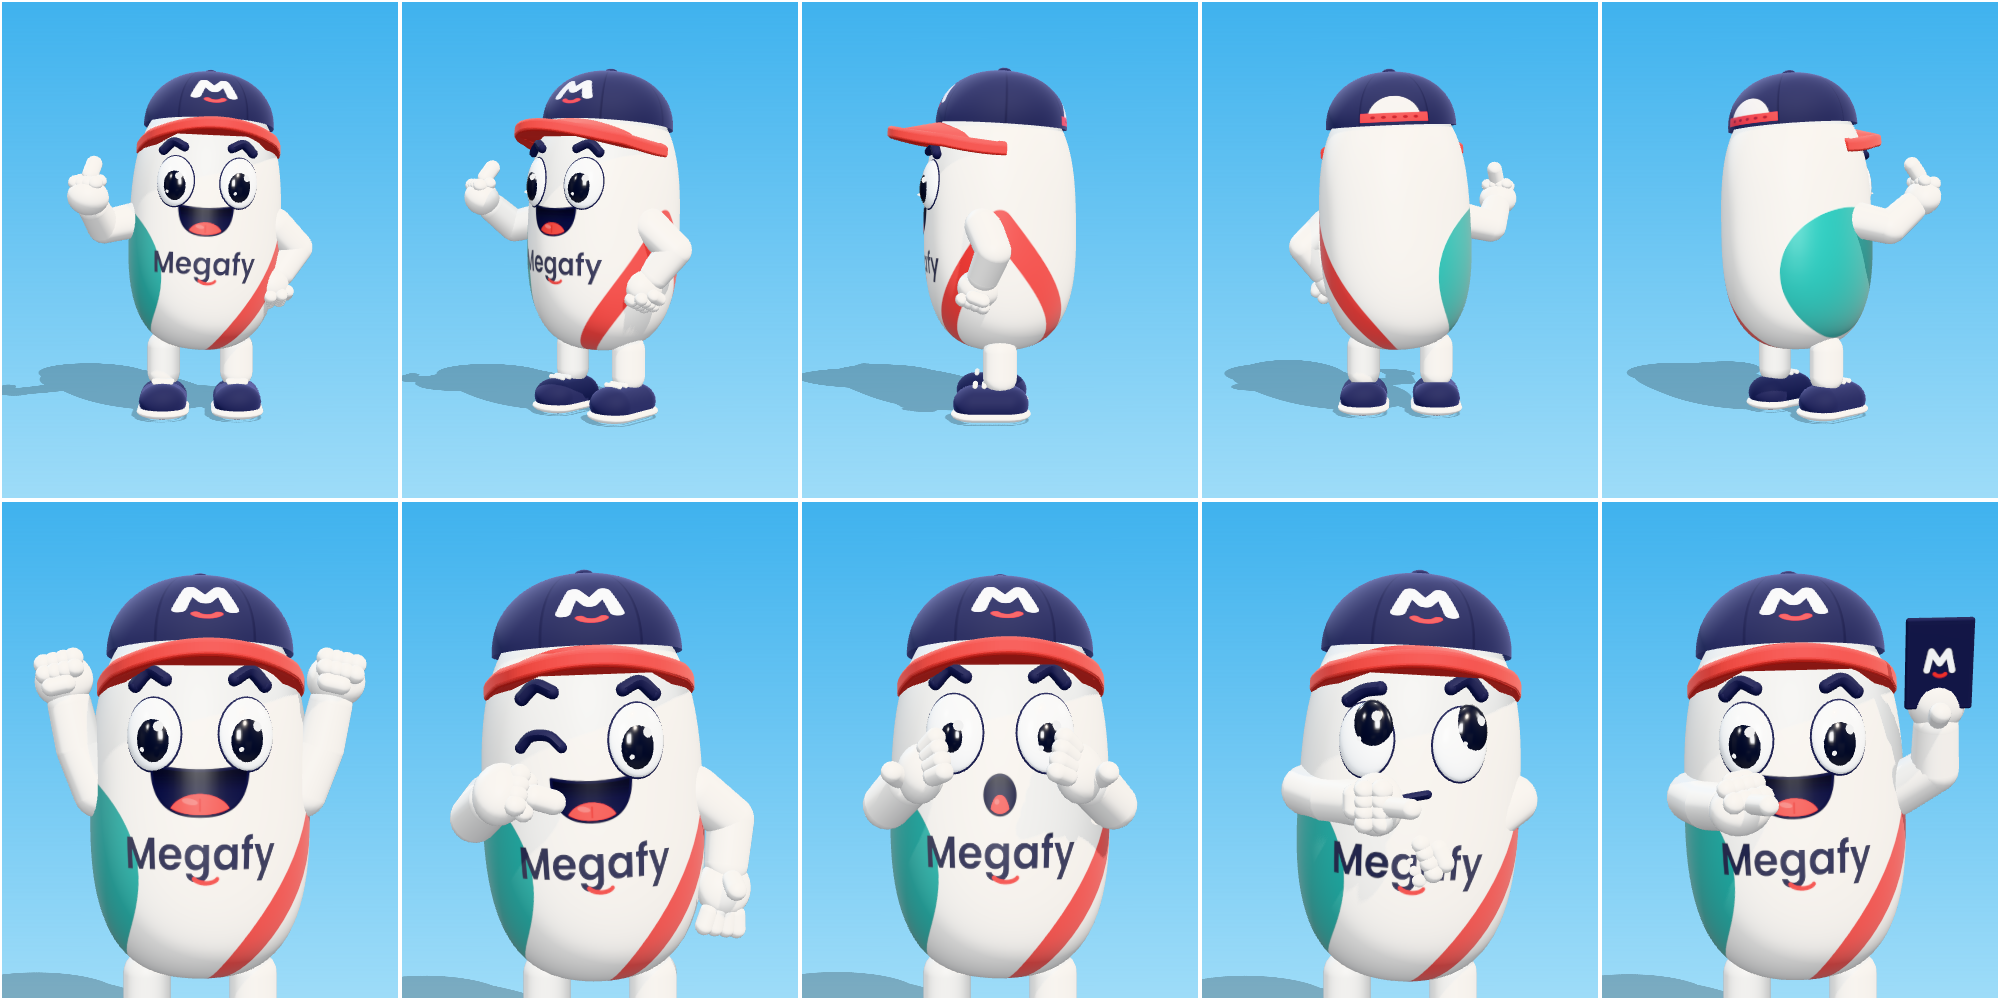
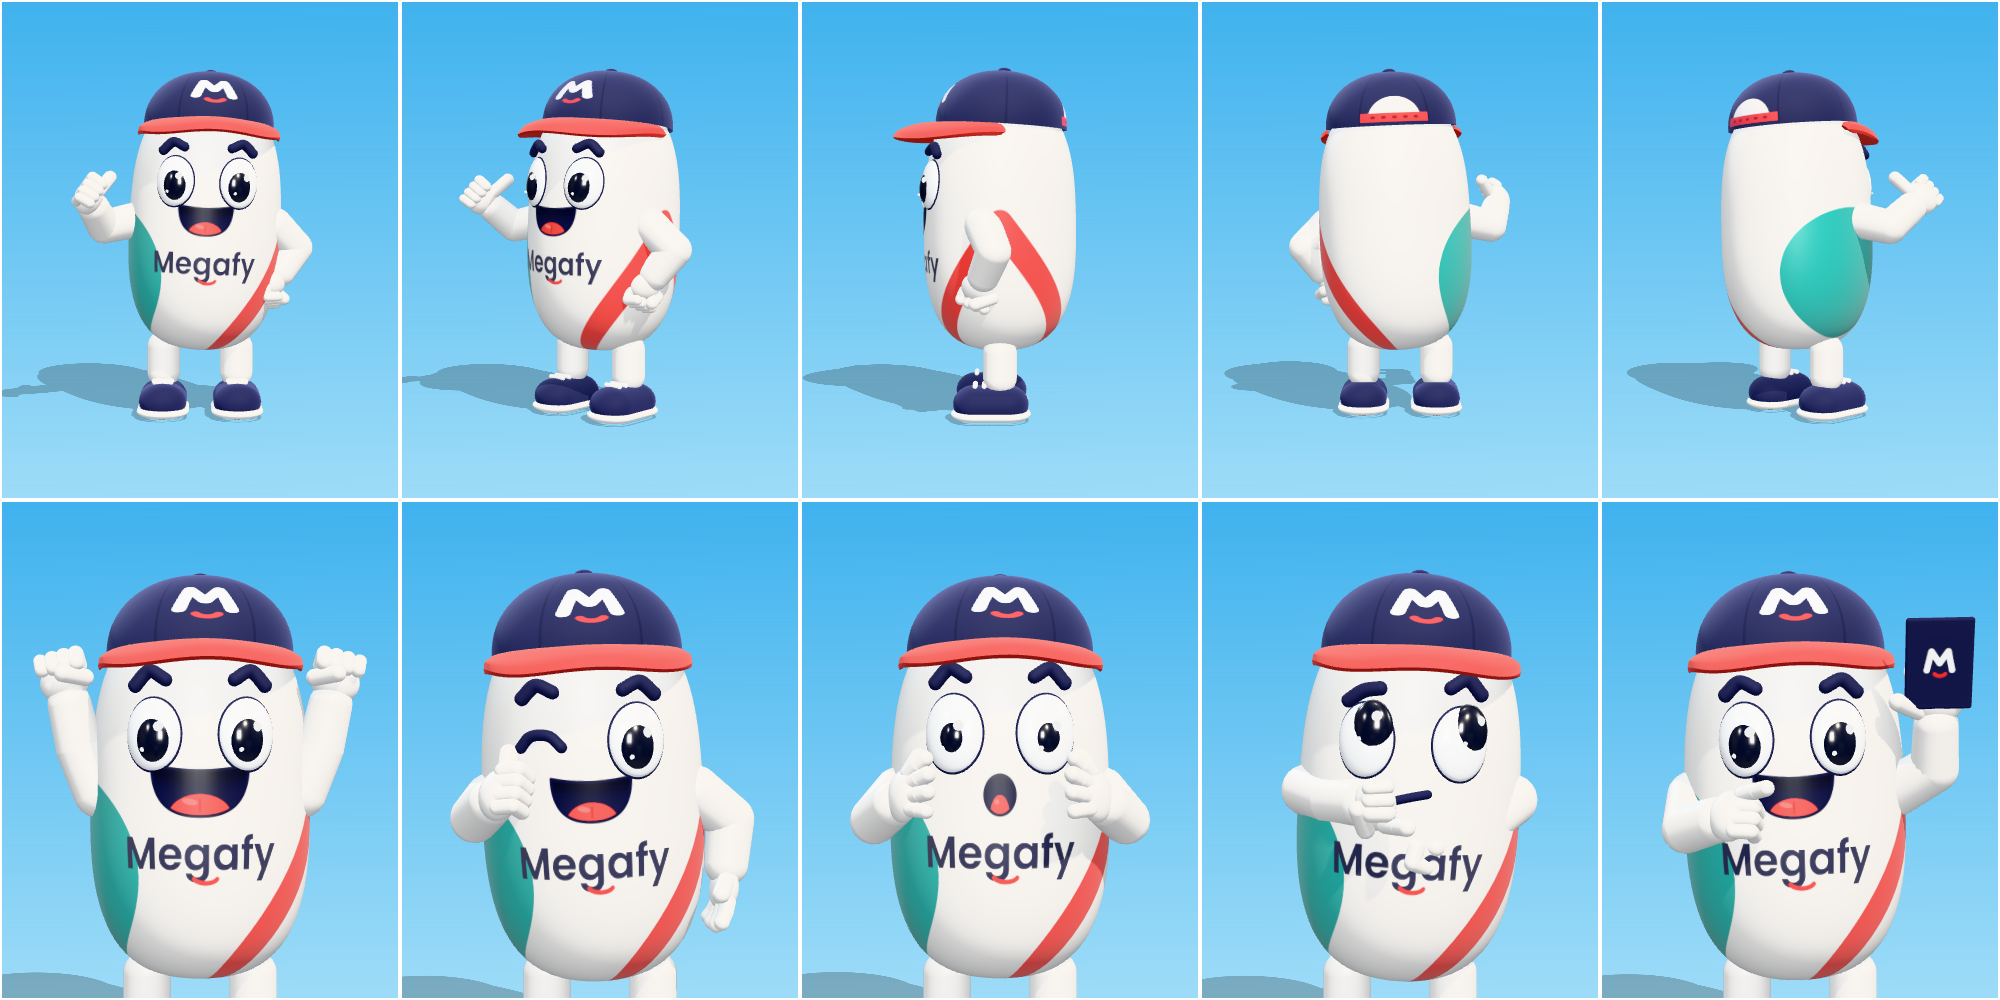
fix(mascot): attach cap brim, smooth eyes and remodel hands
- Build the brim as a dense grid bent by distance past the crown wall,
  so it stays flush with the crown and the head no longer cuts through
  the extruded caps; clamp the lip and tip factors that produced NaN
- Point face ellipsoid poles out of the skin so eye outlines use the
  64-segment equator, and weld seam vertices before wrapping
- Remodel hands as merged gloves with jointed fingers and a mirrored
  thumb on the outer edge; the thumbs-up no longer reads as a middle
  finger
- Retune pose facings to the palm convention and update the preview

diff --git a/src/scene3d/mascot/parts.ts b/src/scene3d/mascot/parts.ts
@@ -1,5 +1,6 @@
 import * as THREE from 'three';
 import { RoundedBoxGeometry } from 'three/addons/geometries/RoundedBoxGeometry.js';
+import * as BufferGeometryUtils from 'three/addons/utils/BufferGeometryUtils.js';
 import { BODY, bodyProfile, bodyRadius, wrapOntoBody } from './bodySurface';
 import { MASCOT_COLORS as C } from './palette';
 import type { MascotHand } from './poses';
@@ -72,24 +73,40 @@ export function createBody(mat: MascotMaterials, q: MascotQuality): THREE.Mesh {
 
 // --- Face -------------------------------------------------------------------------------------
 
-/** Flattened ellipsoid authored in face space, wrapped onto the body. */
+/**
+ * Shares the seam and pole vertices that built-in shapes duplicate, so the normals the wrap
+ * recomputes stay continuous instead of showing a crease in the highlights.
+ */
+function weld(g: THREE.BufferGeometry): THREE.BufferGeometry {
+  g.deleteAttribute('normal');
+  g.deleteAttribute('uv');
+  const welded = BufferGeometryUtils.mergeVertices(g);
+  g.dispose();
+  return welded;
+}
+
+/**
+ * Flattened ellipsoid authored in face space, wrapped onto the body. Its poles point out of the
+ * skin, so the outline seen from the front is the finely divided equator rather than a meridian.
+ */
 function blob(rx: number, ry: number, depth: number, x: number, y: number, z: number, q: MascotQuality): THREE.BufferGeometry {
-  const g = new THREE.SphereGeometry(1, seg(28, q), seg(16, q));
+  const g = new THREE.SphereGeometry(1, seg(64, q), seg(14, q));
+  g.rotateX(Math.PI / 2);
   g.scale(rx, ry, depth);
   g.translate(x, y, z);
-  return wrapOntoBody(g, 0);
+  return wrapOntoBody(weld(g), 0);
 }
 
 function stroke(points: THREE.Vector3[], radius: number, q: MascotQuality): THREE.BufferGeometry {
   const curve = new THREE.CatmullRomCurve3(points);
-  const g = new THREE.TubeGeometry(curve, seg(24, q), radius, seg(8, q), false);
-  return wrapOntoBody(g, 0);
+  const g = new THREE.TubeGeometry(curve, seg(40, q), radius, seg(16, q), false);
+  return wrapOntoBody(weld(g), 0);
 }
 
 function roundCap(position: THREE.Vector3, radius: number, q: MascotQuality): THREE.BufferGeometry {
-  const g = new THREE.SphereGeometry(radius, seg(10, q), seg(8, q));
+  const g = new THREE.SphereGeometry(radius, seg(16, q), seg(12, q));
   g.translate(position.x, position.y, position.z);
-  return wrapOntoBody(g, 0);
+  return wrapOntoBody(weld(g), 0);
 }
 
 function strokeWithCaps(group: THREE.Group, points: THREE.Vector3[], radius: number, material: THREE.Material, q: MascotQuality): void {
@@ -229,6 +246,60 @@ function crownProfile(steps: number): THREE.Vector2[] {
   return points;
 }
 
+const BRIM = { reach: 0.84, flare: 0.045, thickness: 0.07 } as const;
+
+/**
+ * One face of the brim (face = 1 top, -1 underside) as a dense grid over a crescent in front of
+ * the crown: angle θ runs side to side, v from just inside the crown wall to the bill's edge.
+ * A grid lets the bend follow every point; an extruded shape triangulates into long triangles
+ * that cut straight through the curve.
+ */
+function brimSurface(rim: number, face: 1 | -1, q: MascotQuality): THREE.BufferGeometry {
+  const inner = rim - 0.02;
+  const side = rim + BRIM.flare;
+  const cols = seg(56, q);
+  const rows = seg(18, q);
+  const positions: number[] = [];
+  for (let i = 0; i <= cols; i++) {
+    const theta = Math.PI * (i / cols - 0.5);
+    const sin = Math.sin(theta);
+    const cos = Math.cos(theta);
+    const edge = 1 / Math.hypot(sin / side, cos / BRIM.reach);
+    for (let j = 0; j <= rows; j++) {
+      const v = j / rows;
+      const r = inner + v * (edge - inner);
+      const x = r * sin;
+      const z = r * cos;
+      // t grows with the distance past the crown wall (1 at the front edge): the bend grows with
+      // it, so the brim is flush with the crown where they meet and only the bill curves down.
+      // Absolute distance keeps the narrow side tips nearly flat instead of plunging into the head.
+      const t = THREE.MathUtils.clamp((r - rim) / (BRIM.reach - rim), 0, 1);
+      const mid = -BRIM.thickness / 2 - t * (0.7 * x * x + 0.1 * t);
+      // Half thickness closes to zero at the outer edge (a rounded lip) and at both tips.
+      // Clamped: at the edges rounding pushes these a hair past 1, and the square roots go NaN.
+      const lip = THREE.MathUtils.clamp((v - 0.82) / 0.18, 0, 1);
+      const tip = THREE.MathUtils.clamp((Math.abs(theta) / (Math.PI / 2) - 0.9) / 0.1, 0, 1);
+      const half = (BRIM.thickness / 2) * Math.sqrt(1 - lip * lip) * Math.sqrt(1 - tip * tip);
+      positions.push(x, mid + face * half, z);
+    }
+  }
+  const index: number[] = [];
+  for (let i = 0; i < cols; i++) {
+    for (let j = 0; j < rows; j++) {
+      const a = i * (rows + 1) + j;
+      const b = a + rows + 1;
+      // Winding so the top faces up and the underside faces down.
+      if (face === 1) index.push(a, a + 1, b, b, a + 1, b + 1);
+      else index.push(a, b, a + 1, b, b + 1, a + 1);
+    }
+  }
+  const g = new THREE.BufferGeometry();
+  g.setAttribute('position', new THREE.Float32BufferAttribute(positions, 3));
+  g.setIndex(index);
+  g.computeVertexNormals();
+  return g;
+}
+
 export function createCap(mat: MascotMaterials, q: MascotQuality): THREE.Group {
   const cap = new THREE.Group();
   const rim = bodyRadius(CAP.rimY) + CAP.ease;
@@ -241,38 +312,9 @@ export function createCap(mat: MascotMaterials, q: MascotQuality): THREE.Group {
   button.translate(0, CAP.height - 0.004, 0);
   cap.add(mesh(button, mat.canvas));
 
-  // Brim: a thick crescent in front of the crown, pre-curved down at the sides.
-  const inner = rim - 0.02;
-  const brim = new THREE.Shape();
-  brim.moveTo(inner + 0.05, 0);
-  brim.absellipse(0, 0, inner + 0.05, 0.86, 0, Math.PI, false, 0);
-  brim.lineTo(-inner, 0);
-  brim.absarc(0, 0, inner, Math.PI, 0, true);
-  const brimGeo = new THREE.ExtrudeGeometry(brim, {
-    depth: 0.045,
-    curveSegments: seg(48, q),
-    bevelEnabled: true,
-    bevelThickness: 0.02,
-    bevelSize: 0.02,
-    bevelSegments: 4,
-  });
-  brimGeo.rotateX(Math.PI / 2);
-  const p = brimGeo.getAttribute('position');
-  for (let i = 0; i < p.count; i++) {
-    const x = p.getX(i);
-    const z = p.getZ(i);
-    // Down at the sides, and the bill tips down toward its edge.
-    p.setY(i, p.getY(i) - 0.5 * x * x - 0.14 * Math.max(0, z - 0.45));
-  }
-  brimGeo.computeVertexNormals();
-  const brimMesh = mesh(brimGeo, mat.red);
-  brimMesh.position.y = -0.012;
-  cap.add(brimMesh);
-  // A darker copy a hair lower reads as the brim's underside.
-  const under = mesh(brimGeo, mat.redShade, false);
-  under.position.y = -0.02;
-  under.scale.set(0.99, 1, 0.99);
-  cap.add(under);
+  // Brim: the top in red, the underside a shade darker, meeting at a rounded edge.
+  cap.add(mesh(brimSurface(rim, 1, q), mat.red));
+  cap.add(mesh(brimSurface(rim, -1, q), mat.redShade));
 
   cap.position.set(0, CAP.rimY, -0.01);
   cap.rotation.set(-0.06, 0.06, 0);
@@ -285,62 +327,71 @@ function capsule(radius: number, length: number, q: MascotQuality): THREE.Capsul
   return new THREE.CapsuleGeometry(radius, length, seg(6, q), seg(16, q));
 }
 
-function createHand(kind: MascotHand, mat: MascotMaterials, q: MascotQuality): THREE.Group {
-  const hand = new THREE.Group();
-  const add = (g: THREE.BufferGeometry) => hand.add(mesh(g, mat.limb));
-  const closed = kind !== 'open';
-  // Puffy glove: a big rounded palm with chunky fingers.
-  const palm = new THREE.SphereGeometry(0.15, seg(24, q), seg(16, q));
-  palm.scale(closed ? 1.05 : 1, closed ? 0.95 : 1.05, closed ? 0.88 : 0.72);
-  palm.translate(0, -0.13, 0);
-  add(palm);
+const Y_AXIS = new THREE.Vector3(0, 1, 0);
+const v3 = (x: number, y: number, z: number) => new THREE.Vector3(x, y, z);
+
+/** Capsule running from a to b: one finger segment. Chained segments of one radius bend smoothly. */
+function bone(a: THREE.Vector3, b: THREE.Vector3, radius: number, q: MascotQuality): THREE.BufferGeometry {
+  const dir = new THREE.Vector3().subVectors(b, a);
+  const g = new THREE.CapsuleGeometry(radius, dir.length(), seg(6, q), seg(18, q));
+  g.applyQuaternion(new THREE.Quaternion().setFromUnitVectors(Y_AXIS, dir.normalize()));
+  g.translate((a.x + b.x) / 2, (a.y + b.y) / 2, (a.z + b.z) / 2);
+  return g;
+}
+
+function ellipsoid(rx: number, ry: number, rz: number, center: THREE.Vector3, q: MascotQuality): THREE.BufferGeometry {
+  const g = new THREE.SphereGeometry(1, seg(32, q), seg(20, q));
+  g.scale(rx, ry, rz);
+  g.translate(center.x, center.y, center.z);
+  return g;
+}
+
+/**
+ * Cartoon glove in wrist space: the hand hangs along -Y, the palm (where fingers curl) faces +Z
+ * and the thumb sits on the side·X edge, so the left and right hands mirror each other.
+ * Fingers run index → pinky away from the thumb. Each hand is merged into one mesh.
+ */
+function createHand(kind: MascotHand, side: 1 | -1, mat: MascotMaterials, q: MascotQuality): THREE.Group {
+  const parts: THREE.BufferGeometry[] = [];
+  const fingerX = [0.096, 0.032, -0.032, -0.096].map((x) => side * x);
+  const radius = [0.043, 0.044, 0.042, 0.038];
+  const curled = (i: number) => {
+    // Knuckle → around the bottom of the fist → fingertip tucked against the palm.
+    const x = fingerX[i]!;
+    const r = radius[i]!;
+    parts.push(bone(v3(x, -0.19, -0.02), v3(x, -0.255, 0.035), r, q));
+    parts.push(bone(v3(x, -0.255, 0.035), v3(x * 0.95, -0.205, 0.1), r, q));
+  };
+  const straight = (i: number, length: number, spread: number, curl: number) => {
+    const x = fingerX[i]!;
+    const base = v3(x, -0.2, 0);
+    const mid = v3(x * (1 + spread * 0.5), -0.2 - length * 0.55, curl * 0.4);
+    const tip = v3(x * (1 + spread), -0.2 - length, curl);
+    parts.push(bone(base, mid, radius[i]!, q), bone(mid, tip, radius[i]! * 0.96, q));
+  };
 
   if (kind === 'open') {
-    [-0.085, -0.03, 0.03, 0.085].forEach((x, i) => {
-      const f = capsule(0.05, 0.08, q);
-      f.rotateZ((i - 1.5) * 0.13);
-      f.rotateX(0.15);
-      f.translate(x, -0.3, 0.01);
-      add(f);
-    });
-    const thumb = capsule(0.055, 0.08, q);
-    thumb.rotateX(-0.9);
-    thumb.translate(0, -0.11, 0.13);
-    add(thumb);
-    return hand;
+    parts.push(ellipsoid(0.135, 0.125, 0.072, v3(0, -0.13, 0), q));
+    [0.11, 0.125, 0.115, 0.09].forEach((length, i) => straight(i, length, 0.4, 0.035));
+    parts.push(bone(v3(side * 0.09, -0.09, 0.02), v3(side * 0.205, -0.165, 0.075), 0.046, q));
+  } else {
+    parts.push(ellipsoid(0.13, 0.115, 0.098, v3(0, -0.12, 0), q));
+    if (kind === 'point') straight(0, 0.17, 0, 0.01);
+    else curled(0);
+    for (let i = 1; i < 4; i++) curled(i);
+    if (kind === 'thumbsUp') {
+      // Out of the top of the fist along side·X, square to the forearm.
+      parts.push(bone(v3(side * 0.09, -0.1, 0.03), v3(side * 0.25, -0.075, 0.03), 0.05, q));
+    } else {
+      // Wrapped across the front of the curled fingers.
+      parts.push(bone(v3(side * 0.12, -0.12, 0.06), v3(side * 0.015, -0.165, 0.14), 0.046, q));
+    }
   }
 
-  // Closed hands: knuckles on top, curled fingers rolling down the front.
-  [-0.08, -0.027, 0.027, 0.08].forEach((x) => {
-    const knuckle = new THREE.SphereGeometry(0.055, seg(12, q), seg(10, q));
-    knuckle.translate(x, -0.235, 0.05);
-    add(knuckle);
-    const curl = new THREE.SphereGeometry(0.05, seg(12, q), seg(10, q));
-    curl.translate(x, -0.18, 0.115);
-    add(curl);
-  });
-  if (kind === 'fist') {
-    const thumb = capsule(0.05, 0.08, q);
-    thumb.rotateZ(Math.PI / 2);
-    thumb.translate(0.02, -0.11, 0.135);
-    add(thumb);
-  }
-  if (kind === 'thumbsUp') {
-    // Sticks out of the knuckle side (+Z), so the pose's `facing` aims it.
-    const thumb = capsule(0.062, 0.1, q);
-    thumb.rotateX(Math.PI / 2);
-    thumb.translate(0.0, -0.21, 0.2);
-    add(thumb);
-  }
-  if (kind === 'point') {
-    const index = capsule(0.05, 0.15, q);
-    index.translate(0.0, -0.35, 0.03);
-    add(index);
-    const thumb = capsule(0.05, 0.07, q);
-    thumb.rotateZ(Math.PI / 2);
-    thumb.translate(0.02, -0.12, 0.135);
-    add(thumb);
-  }
+  const geometry = BufferGeometryUtils.mergeGeometries(parts);
+  for (const p of parts) p.dispose();
+  const hand = new THREE.Group();
+  hand.add(mesh(geometry, mat.limb));
   return hand;
 }
 
@@ -385,10 +436,10 @@ export function createArm(side: 1 | -1, mat: MascotMaterials, q: MascotQuality):
   elbow.add(wrist);
   wrist.add(joint(ARM_RADII[2]));
   const hands = {
-    open: createHand('open', mat, q),
-    fist: createHand('fist', mat, q),
-    thumbsUp: createHand('thumbsUp', mat, q),
-    point: createHand('point', mat, q),
+    open: createHand('open', side, mat, q),
+    fist: createHand('fist', side, mat, q),
+    thumbsUp: createHand('thumbsUp', side, mat, q),
+    point: createHand('point', side, mat, q),
   };
   wrist.add(hands.open, hands.fist, hands.thumbsUp, hands.point);
   return { shoulder, elbow, wrist, hands, side };

diff --git a/src/scene3d/mascot/poses.ts b/src/scene3d/mascot/poses.ts
@@ -13,7 +13,7 @@ export interface ArmPose {
   wrist: Vec3;
   /** Direction the elbow bends toward. */
   pole: Vec3;
-  /** Direction the back of the hand (knuckles and thumb) faces. */
+  /** Direction the palm faces (the side the fingers curl toward); the thumb is on the hand's outer edge. */
   facing: Vec3;
   hand: MascotHand;
 }
@@ -27,12 +27,12 @@ export interface MascotPose {
   prop?: 'card';
 }
 
-const relaxed: ArmPose = { wrist: [0.7, 0.6, 0.1], pole: [1, 0, -0.4], facing: [0.3, 0, 1], hand: 'open' };
+const relaxed: ArmPose = { wrist: [0.7, 0.6, 0.1], pole: [1, 0, -0.4], facing: [-1, 0, 0.2], hand: 'open' };
 
 export const MASCOT_POSES: Record<MascotPoseName, MascotPose> = {
   idle: { right: relaxed, left: relaxed, lean: [0, 0], expression: 'happy' },
   saludo: {
-    right: { wrist: [0.84, 1.08, 0.4], pole: [1, -1, -0.3], facing: [0, 1, 0], hand: 'thumbsUp' },
+    right: { wrist: [0.84, 1.08, 0.4], pole: [1, -1, -0.3], facing: [-0.2, 0.5, 1], hand: 'thumbsUp' },
     left: { wrist: [0.6, 0.64, 0.12], pole: [1, 0.3, -0.5], facing: [1, 0, 0], hand: 'fist' },
     lean: [0, 0.04],
     expression: 'happy',
@@ -50,19 +50,19 @@ export const MASCOT_POSES: Record<MascotPoseName, MascotPose> = {
     expression: 'wink',
   },
   sorpresa: {
-    right: { wrist: [0.46, 1.04, 0.55], pole: [1, -1, 0], facing: [1, 0, 0.6], hand: 'open' },
-    left: { wrist: [0.46, 1.04, 0.55], pole: [1, -1, 0], facing: [1, 0, 0.6], hand: 'open' },
+    right: { wrist: [0.54, 0.94, 0.5], pole: [1, -1, 0], facing: [-1, 0, -0.2], hand: 'open' },
+    left: { wrist: [0.54, 0.94, 0.5], pole: [1, -1, 0], facing: [-1, 0, -0.2], hand: 'open' },
     lean: [-0.05, 0],
     expression: 'surprised',
   },
   pensando: {
     right: { wrist: [0.12, 0.98, 0.7], pole: [1, -1, 0.3], facing: [0, 0, 1], hand: 'point' },
-    left: { wrist: [-0.16, 0.56, 0.64], pole: [1, -0.6, 0.3], facing: [0, 0, 1], hand: 'fist' },
+    left: { wrist: [-0.16, 0.56, 0.64], pole: [1, -0.6, 0.3], facing: [0, 1, 0], hand: 'fist' },
     lean: [0.03, 0.05],
     expression: 'thinking',
   },
   carta: {
-    right: { wrist: [0.28, 0.96, 0.66], pole: [1, -1, 0.2], facing: [0, 1, 0.3], hand: 'point' },
+    right: { wrist: [0.4, 0.9, 0.5], pole: [1, -1, 0], facing: [-1, 0, 0.3], hand: 'point' },
     left: { wrist: [0.74, 1.34, 0.34], pole: [1, -1, 0], facing: [0, 0, 1], hand: 'open' },
     lean: [0, -0.03],
     expression: 'happy',
